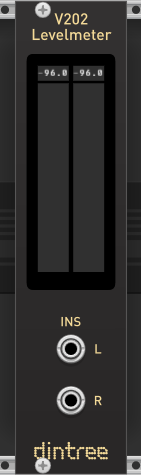
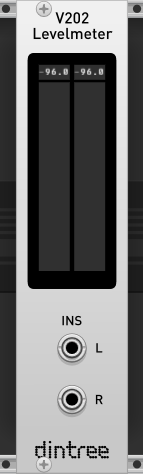
Fixed panel graphics to be light colour. Added spacing for V202 doc text.

diff --git a/README.md b/README.md
@@ -346,6 +346,29 @@ The V202 Levelmeter is a useful tool especially for development. I often wanted 
 exact dB values. The V202 is a peak reading meter with 0.0dBFS normalized to 10Vpk. (20Vpp) There is a two-pole
 high-pass filter set at 10Hz to strip out DC which can ruin the measurement of small signals.
 
+&nbsp;
+&nbsp;
+&nbsp;
+&nbsp;
+&nbsp;
+&nbsp;
+&nbsp;
+&nbsp;
+&nbsp;
+&nbsp;
+&nbsp;
+&nbsp;
+&nbsp;
+&nbsp;
+&nbsp;
+&nbsp;
+&nbsp;
+&nbsp;
+&nbsp;
+&nbsp;
+&nbsp;
+&nbsp;
+
 ----
 ### V203 Test Osc
 **Test Oscillator with Sweep**
